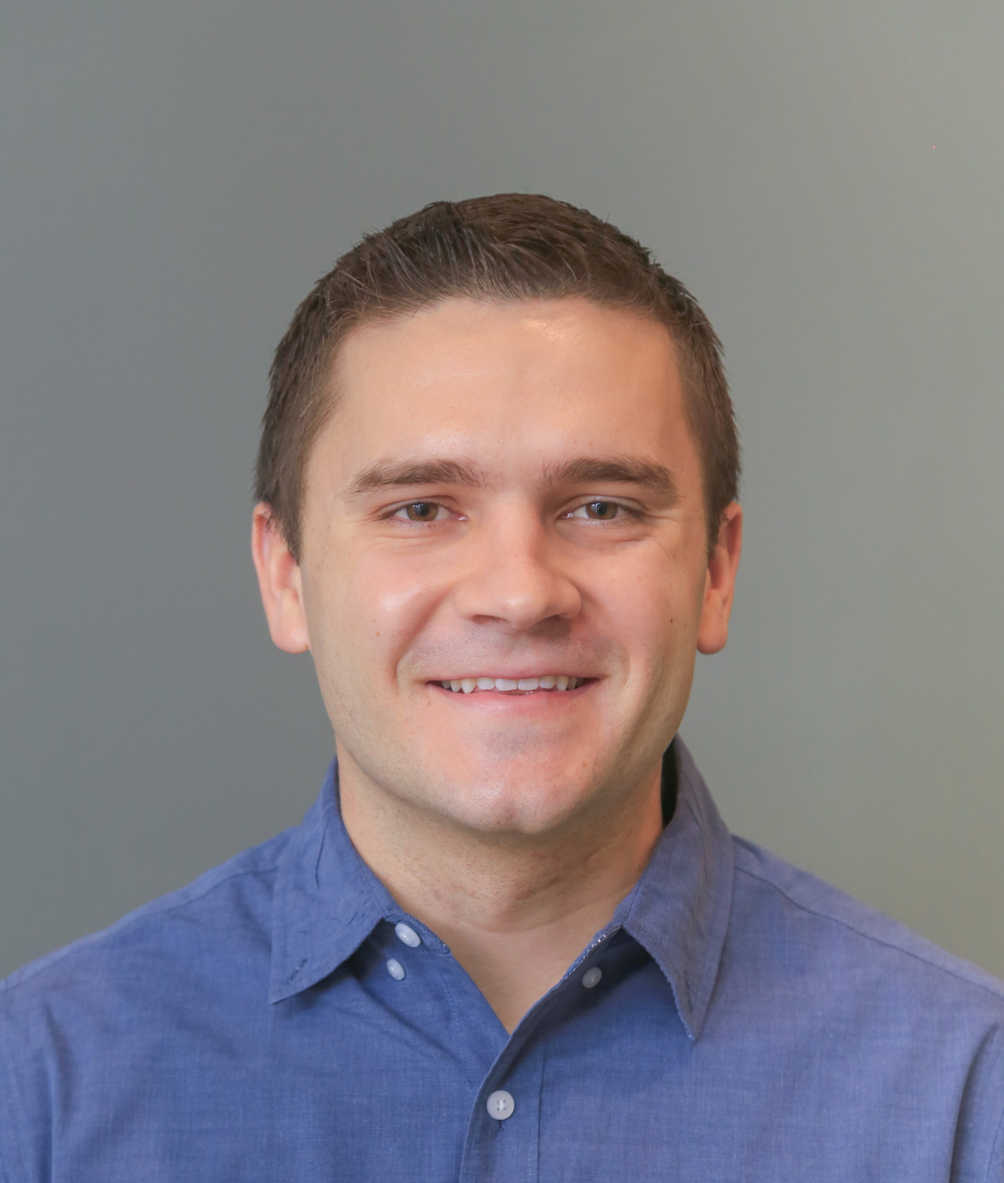
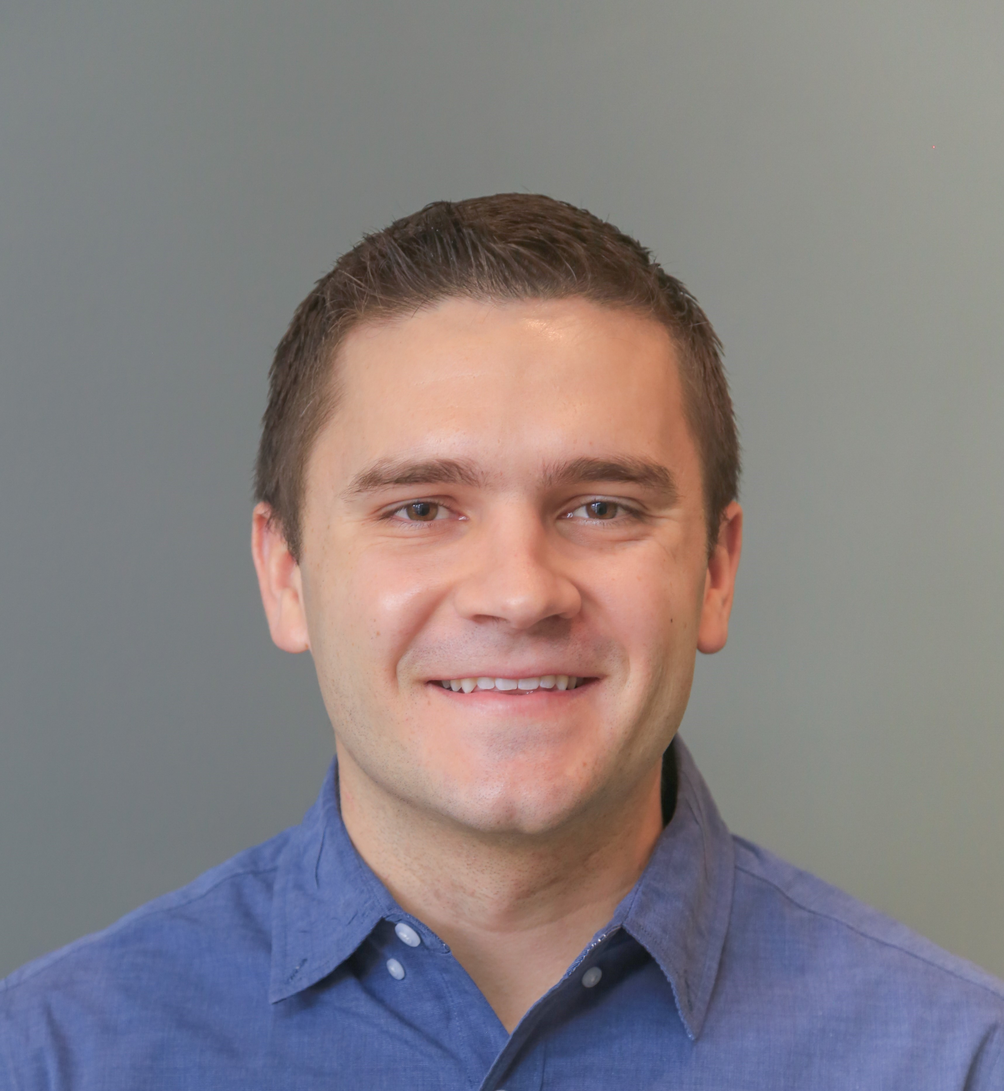
fixed egg shape picture and add alt tag

Changed region(s): [[0.0, 0.1553, 1.0, 1.0], [0.0311, 0.932, 0.0934, 1.0], [0.4049, 0.932, 0.4361, 0.963]]

diff --git a/portfolio.html b/portfolio.html
@@ -29,7 +29,7 @@
         <nav class="navbar navbar-expand-lg navbar-dark bg-primary fixed-top" id="sideNav">
             <a class="navbar-brand js-scroll-trigger" href="#page-top">
                 <span class="d-block d-lg-none">Graham Delafield</span>
-                <span class="d-none d-lg-block"><img class="img-fluid img-profile rounded-circle mx-auto mb-2" src="assets/img/profile.jpg" alt="" /></span>
+                <span class="d-none d-lg-block"><img class="img-fluid img-profile rounded-circle mx-auto mb-2" src="assets/img/profile.jpg" alt="Picture of Graham Delafield" /></span>
             </a>
             <button class="navbar-toggler" type="button" data-toggle="collapse" data-target="#navbarSupportedContent" aria-controls="navbarSupportedContent" aria-expanded="false" aria-label="Toggle navigation"><span class="navbar-toggler-icon"></span></button>
             <div class="collapse navbar-collapse" id="navbarSupportedContent">
@@ -201,21 +201,13 @@
                 <div class="resume-section-content">
                     <h2 class="mb-5">Posters</h2>
                     <div class="card-table">
-                        <div class="card" style="width: 18rem;">
-                            <img class="card-img-top" src="assets/img/Posters/ASMS 2017.png" alt="MCP Review Image">
-                            <div class="card-body d-flex flex-column">
-                                <h5 class="card-title">Three-Dimensionsal Platform for N-Linked Glycopeptide Separation and Analysis</h5>
-                                <p class="card-text">ASMS 2017</p>
-                                <a href="assets/img/Posters/ASMS 2017.png" target="_blank" class="mt-auto btn btn-primary">View Poster</a>
-                            </div>
-                        </div>
                     <div class="card" style="width: 18rem;">
-                        <img class="card-img-top" src="assets/img/Posters/ASMS 2018.png" alt="Card image cap">
+                        <img class="card-img-top" src="assets/img/Posters/ASMS 2020_thumb.png" alt="Card image cap">
                         <div class="card-body d-flex flex-column">
-                            <h5 class="card-title">Characterization Analysis of Through Arrical Time Correlation Using Concurrent RPLC Fraction
-                                                   Fraction Monitoring and FAIMS Filtering</h5>
-                            <p class="card-text">ASMS 2018</p>
-                            <a href="assets/img/Posters/ASMS 2018.png" target="_blank" class="mt-auto btn btn-primary">View Poster</a>
+                            <h5 class="card-title">Enhancing Glycopeptide Detection, Identification, and Structural Characterization through
+                                                   PGC-Incorporated LC-IMS</h5>
+                            <p class="card-text">ASMS 2020</p>
+                            <a href="assets/img/Posters/ASMS 2020.png" target="_blank" class="mt-auto btn btn-primary">View Poster</a>
                         </div>
                     </div>
                     <div class="card" style="width: 18rem;">
@@ -227,12 +219,20 @@
                         </div>
                     </div>
                     <div class="card" style="width: 18rem;">
-                        <img class="card-img-top" src="assets/img/Posters/ASMS 2020_thumb.png" alt="Card image cap">
+                        <img class="card-img-top" src="assets/img/Posters/ASMS 2018.png" alt="Card image cap">
                         <div class="card-body d-flex flex-column">
-                            <h5 class="card-title">Enhancing Glycopeptide Detection, Identification, and Structural Characterization through
-                                                   PGC-Incorporated LC-IMS</h5>
-                            <p class="card-text">ASMS 2020</p>
-                            <a href="assets/img/Posters/ASMS 2020.png" target="_blank" class="mt-auto btn btn-primary">View Poster</a>
+                            <h5 class="card-title">Characterization Analysis of Through Arrical Time Correlation Using Concurrent RPLC Fraction
+                                                   Fraction Monitoring and FAIMS Filtering</h5>
+                            <p class="card-text">ASMS 2018</p>
+                            <a href="assets/img/Posters/ASMS 2018.png" target="_blank" class="mt-auto btn btn-primary">View Poster</a>
+                        </div>
+                    </div>
+                    <div class="card" style="width: 18rem;">
+                        <img class="card-img-top" src="assets/img/Posters/ASMS 2017.png" alt="MCP Review Image">
+                        <div class="card-body d-flex flex-column">
+                            <h5 class="card-title">Three-Dimensionsal Platform for N-Linked Glycopeptide Separation and Analysis</h5>
+                            <p class="card-text">ASMS 2017</p>
+                            <a href="assets/img/Posters/ASMS 2017.png" target="_blank" class="mt-auto btn btn-primary">View Poster</a>
                         </div>
                     </div>
                 </div>

diff --git a/index.html b/index.html
@@ -29,7 +29,7 @@
         <nav class="navbar navbar-expand-lg navbar-dark bg-primary fixed-top" id="sideNav">
             <a class="navbar-brand js-scroll-trigger" href="#page-top">
                 <span class="d-block d-lg-none">Graham Delafield</span>
-                <span class="d-none d-lg-block"><img class="img-fluid img-profile rounded-circle mx-auto mb-2" src="assets/img/profile.jpg" alt="" /></span>
+                <span class="d-none d-lg-block"><img class="img-fluid img-profile rounded-circle mx-auto mb-2" src="assets/img/profile.jpg" alt="Picture of Graham Delafield" /></span>
             </a>
             <button class="navbar-toggler" type="button" data-toggle="collapse" data-target="#navbarSupportedContent" aria-controls="navbarSupportedContent" aria-expanded="false" aria-label="Toggle navigation"><span class="navbar-toggler-icon"></span></button>
             <div class="collapse navbar-collapse" id="navbarSupportedContent">
@@ -59,7 +59,7 @@
                     <p class="lead mb-5">I am a developing researcher in the fields of proteomics, bioinformatics, and computer science. 
                         Currently I am focused on analytical innovation and computational modeling to aid in the profiling and 
                         characterization of the human glycoproteome, performing graduate research at the University of Wisconsin-Madison.
-                        Anticipating graduation in May, 2023, I am interested in gaining experience in industrial and governmenta settings
+                        Anticipating graduation in May, 2023, I am interested in gaining experience in industrial and governmental settings
                         that allow me to exercise my technical expertise and strong communication and leadership skills.
                     </p>
                     <div class="row">
@@ -157,7 +157,7 @@
                     <h2 class="mb-5">Publications</h2>
                     <div class="row">
                         <button type="button" class="btn btn-primary" style="margin-top: 0rem; margin-bottom: 2rem; margin-left: 1rem;">
-                            <a class="button-text" href="portfolio.html#publications" download="DanielGDelafield_Resume">
+                            <a class="button-text" href="portfolio.html#publications">
                             My Portfolio
                             </a>
                         </button>
